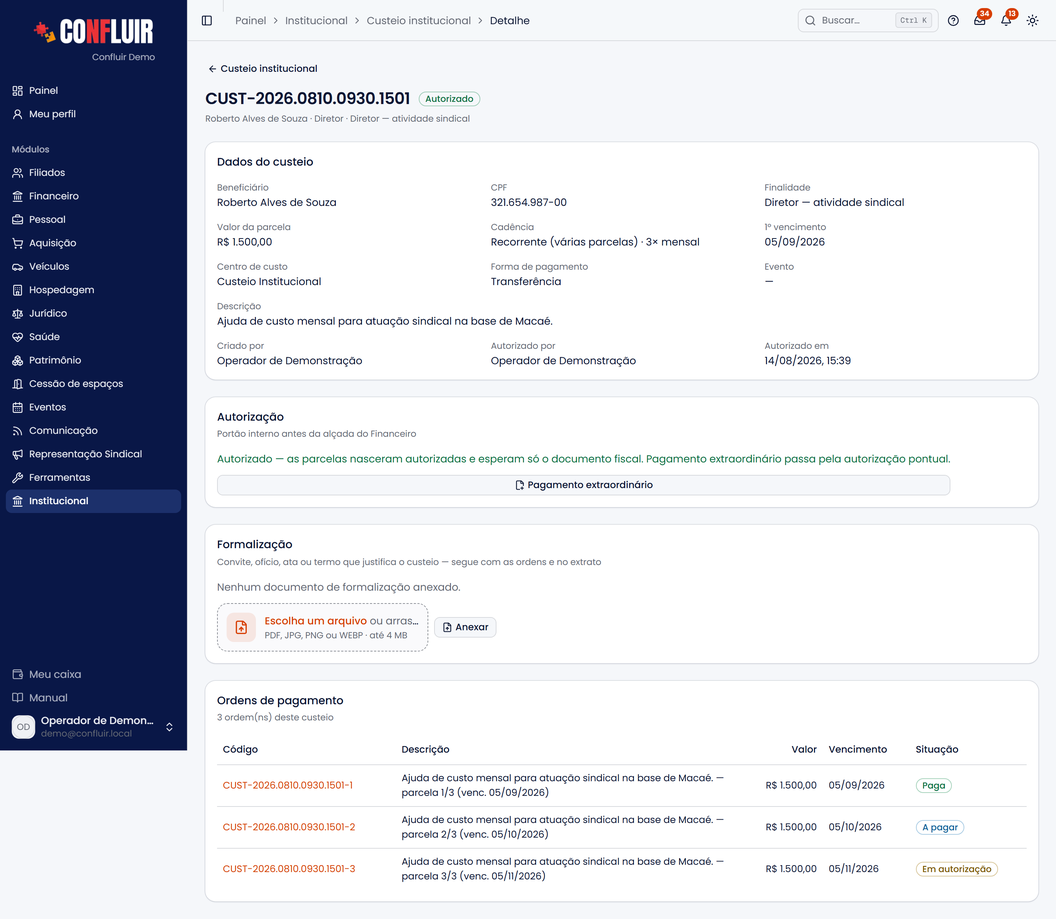
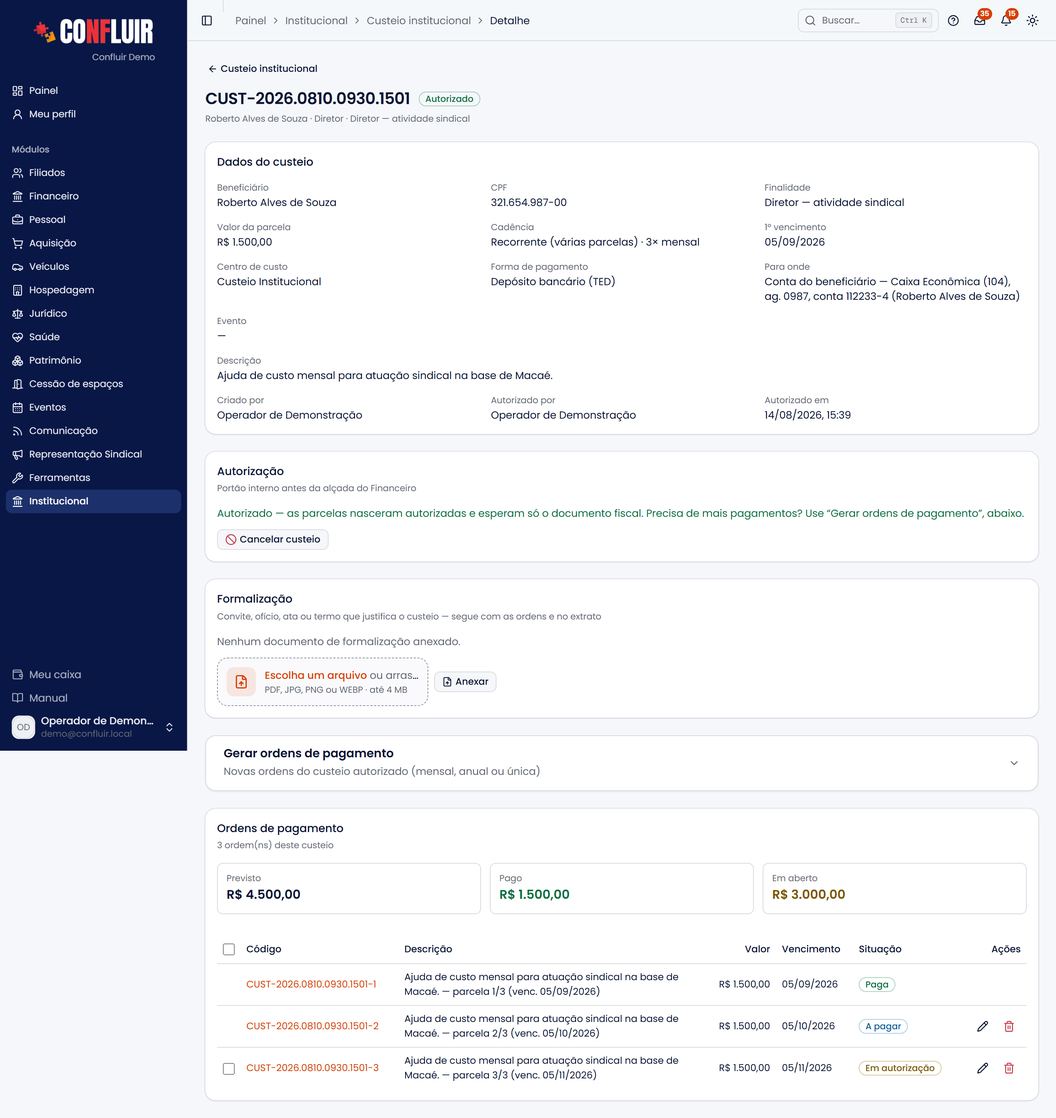
Custeio: situação Concluído e prints do manual atualizados
Custeio autorizado com todas as ordens pagas ou canceladas (ao menos uma
paga) aparece como Concluído na lista, no filtro, no CSV, no resumo e no
detalhe — derivado das ordens, sem migração; uma ordem nova o devolve a
autorizado. Prints custeios.png e custeio-detalhe.png refeitos com o
gerador de ordens, o resumo e as ações. Manual e base da ajuda atualizados.

diff --git a/src/lib/ajuda/base-conhecimento.ts b/src/lib/ajuda/base-conhecimento.ts
@@ -307,7 +307,7 @@ export const BASE_AJUDA: ArtigoBase[] = [
   {
     "area": "institucional",
     "slug": "custeios",
-    "texto": "O custeio institucional é onde a entidade registra despesas que ela banca\nem favor de pessoas por razão de missão sindical — não como compra, folha de\npagamento ou reembolso de filiado.\n\n Custeio institucional \n\n Quando usar (e quando não)\n\nTrês beneficiários: \n O custeio atende diretores (em atividade sindical), filiados demitidos\n políticos e convidados de eventos (especialistas, filiados ou não).\n \n\nUse o Custeio — e não outros módulos — quando:\n\n- Convidado de evento: em vez de cadastrá-lo como fornecedor e pagar como\n prestador de serviço (o que não reflete a realidade), registre um custeio com\n o beneficiário do tipo Convidado.\n- Diretor: em vez de lançar como reembolso de filiado (aquela área é para\n despesas do filiado em atos do sindicato, não para atividade de diretor),\n registre um custeio do tipo Diretor.\n\n \n\n Finalidades e centro de custo\n\nCada custeio tem uma finalidade, e cada finalidade define o centro de custo\npadrão. Ao criar o custeio, esse centro é herdado automaticamente — a ordem de\npagamento já nasce classificada.\n\nFinalidades são suas: \n As finalidades são cadastradas por organização. Além das três iniciais, você\n pode criar outras (ex.: “ex-diretor”, “homenagem”) em Finalidades.\n \n\n \n\n Do cadastro ao pagamento\n\n \n \nCadastre o custeio: \n Escolha a finalidade, o beneficiário, o valor e a cadência (pontual ou\n recorrente). Ele nasce como rascunho.\n \n \nSubmeta para autorização: \n O custeio vai para aguardando autorização — o portão interno da\n entidade, antes do Financeiro.\n \n \nAutorize: \n Quem tem a permissão de autorizar libera. Nesse momento, as ordens de\n pagamento são geradas em “Em autorização”.\n \n \nFinanceiro paga: \n As ordens seguem pela alçada do Financeiro como qualquer despesa. No\n Financeiro, o filtro Custeio mostra só essas ordens.\n \n \n\nA formalização é o documento fiscal: \n O arquivo de formalização do custeio vale como documento fiscal das\n ordens que ele gera — aparece como nota na ordem e no extrato. Com ela\n anexada, as parcelas recorrentes já nascem A pagar, sem esperar nota uma a\n uma. Anexada depois, ela entra nas ordens em aberto sem nota própria, e as\n parcelas que aguardavam o documento seguem para pagamento.\n \n\n \n\nConvidado não é fornecedor: \n O convidado externo tem um cadastro leve próprio (nome e dados bancários). Ele\n não entra na lista de fornecedores nem na esteira de Aquisição.\n \n\n Gerar novas ordens\n\nDepois de autorizado, o custeio pode ganhar novas ordens de pagamento, como\num contrato: abra Gerar ordens de pagamento na página do custeio.\n\n- Periodicidade mensal, anual ou única (um pagamento avulso), com o\n valor, o primeiro vencimento (sugerido no mês seguinte à última\n ordem) e a quantidade.\n- Motivo obrigatório: ele entra na descrição e na trilha de cada ordem.\n- Forma de pagamento: vem preenchida com a do custeio (a chave Pix ou a\n conta já validadas aparecem selecionadas). Dá para trocar — a troca vale só\n para as novas ordens; as anteriores seguem com a forma do custeio. Em\n boleto, anexe um arquivo por ordem.\n- Autorização: as novas ordens estendem o que foi autorizado, então nascem\n Em autorização e passam pela alçada. Exceção: parcela recorrente\n gerada por quem tem a permissão Custeio institucional — autorizar nasce\n autorizada, como as originais, e espera só o documento fiscal (com a\n formalização anexada, já A pagar).\n- Antes de gravar, a auditoria analisa; havendo apontamento, abre a tela de\n confirmação.\n- Vencimentos que já têm ordem do custeio são pulados — rodar de novo não\n duplica. O vencimento de uma ordem cancelada pode ser gerado de novo.\n\nNa lista Ordens de pagamento do custeio ficam o previsto, o pago e o\nem aberto (sem as canceladas). As ordens ainda não autorizadas ganham\numa caixa de seleção: marque e clique em Excluir marcadas. As autorizadas se\ncancelam no Financeiro.\n\nCada ordem ainda não paga nem em processamento tem, na coluna Ações,\nEditar (descrição, valor e vencimento, com motivo) e Excluir. A edição é\na mesma correção do Financeiro: o antes e o depois ficam no histórico, e mudar\no valor de uma ordem já autorizada a devolve para autorização. Excluir uma\nordem autorizada desfaz a autorização — o histórico registra isso.\n\n Editar e cancelar\n\n- Editar só em rascunho. Depois de submetido, o custeio não muda mais.\n- Reprovado pode ser reaberto para correção: volta a rascunho (o motivo\n da reprovação continua visível), é corrigido e submetido de novo.\n- Cancelar pede um motivo e vale em rascunho, aguardando autorização ou\n autorizado. O custeio guarda quem cancelou, quando e por quê.\n- Cancelar um custeio autorizado exige a permissão Custeio institucional —\n autorizar. As ordens ainda não pagas são canceladas junto no\n Financeiro; as pagas continuam como estão. Se alguma ordem já estiver em\n pagamento (Processando ou numa remessa enviada ao banco), o cancelamento\n é recusado até o Financeiro resolvê-la.\n- Não há exclusão: o custeio cancelado ou reprovado fica no histórico.\n- Cancelamento pelo Financeiro: se o Financeiro cancelar todas as ordens\n de um custeio, ele passa a cancelado sozinho, com o motivo da última\n ordem. Se o Financeiro desfizer o cancelamento de uma ordem, o custeio\n volta a autorizado. Ordens canceladas aparecem na lista do custeio com o\n motivo.\n\n Erros comuns\n\n- \"O custeio não gerou a ordem de pagamento.\" As ordens saem na\n autorização — um custeio em rascunho ou apenas submetido ainda não\n gerou nada.\n- \"Vou pagar um convidado — cadastro como fornecedor?\" Não. Use Custeio\n com beneficiário Convidado; ele não entra em Fornecedores nem em Aquisição.\n- \"Não aparece a finalidade que preciso.\" Cadastre-a em Finalidades, já\n com o centro de custo padrão — é ele que a ordem herda.\n- \"Só registro, não autorizo.\" Autorizar exige Custeio institucional —\n autorizar; registrar abre para a permissão de edição."
+    "texto": "O custeio institucional é onde a entidade registra despesas que ela banca\nem favor de pessoas por razão de missão sindical — não como compra, folha de\npagamento ou reembolso de filiado.\n\n Custeio institucional \n\n Quando usar (e quando não)\n\nTrês beneficiários: \n O custeio atende diretores (em atividade sindical), filiados demitidos\n políticos e convidados de eventos (especialistas, filiados ou não).\n \n\nUse o Custeio — e não outros módulos — quando:\n\n- Convidado de evento: em vez de cadastrá-lo como fornecedor e pagar como\n prestador de serviço (o que não reflete a realidade), registre um custeio com\n o beneficiário do tipo Convidado.\n- Diretor: em vez de lançar como reembolso de filiado (aquela área é para\n despesas do filiado em atos do sindicato, não para atividade de diretor),\n registre um custeio do tipo Diretor.\n\n \n\n Finalidades e centro de custo\n\nCada custeio tem uma finalidade, e cada finalidade define o centro de custo\npadrão. Ao criar o custeio, esse centro é herdado automaticamente — a ordem de\npagamento já nasce classificada.\n\nFinalidades são suas: \n As finalidades são cadastradas por organização. Além das três iniciais, você\n pode criar outras (ex.: “ex-diretor”, “homenagem”) em Finalidades.\n \n\n \n\n Do cadastro ao pagamento\n\n \n \nCadastre o custeio: \n Escolha a finalidade, o beneficiário, o valor e a cadência (pontual ou\n recorrente). Ele nasce como rascunho.\n \n \nSubmeta para autorização: \n O custeio vai para aguardando autorização — o portão interno da\n entidade, antes do Financeiro.\n \n \nAutorize: \n Quem tem a permissão de autorizar libera. Nesse momento, as ordens de\n pagamento são geradas em “Em autorização”.\n \n \nFinanceiro paga: \n As ordens seguem pela alçada do Financeiro como qualquer despesa. No\n Financeiro, o filtro Custeio mostra só essas ordens.\n \n \nConcluído: \n Quando todas as ordens estão pagas ou canceladas (e ao menos uma foi\n paga), o custeio aparece como Concluído — na lista, no filtro e no\n resumo. Gerar uma ordem nova (ou desfazer o cancelamento de uma) o devolve\n a Autorizado.\n \n \n\nA formalização é o documento fiscal: \n O arquivo de formalização do custeio vale como documento fiscal das\n ordens que ele gera — aparece como nota na ordem e no extrato. Com ela\n anexada, as parcelas recorrentes já nascem A pagar, sem esperar nota uma a\n uma. Anexada depois, ela entra nas ordens em aberto sem nota própria, e as\n parcelas que aguardavam o documento seguem para pagamento.\n \n\n \n\nConvidado não é fornecedor: \n O convidado externo tem um cadastro leve próprio (nome e dados bancários). Ele\n não entra na lista de fornecedores nem na esteira de Aquisição.\n \n\n Gerar novas ordens\n\nDepois de autorizado, o custeio pode ganhar novas ordens de pagamento, como\num contrato: abra Gerar ordens de pagamento na página do custeio.\n\n- Periodicidade mensal, anual ou única (um pagamento avulso), com o\n valor, o primeiro vencimento (sugerido no mês seguinte à última\n ordem) e a quantidade.\n- Motivo obrigatório: ele entra na descrição e na trilha de cada ordem.\n- Forma de pagamento: vem preenchida com a do custeio (a chave Pix ou a\n conta já validadas aparecem selecionadas). Dá para trocar — a troca vale só\n para as novas ordens; as anteriores seguem com a forma do custeio. Em\n boleto, anexe um arquivo por ordem.\n- Autorização: as novas ordens estendem o que foi autorizado, então nascem\n Em autorização e passam pela alçada. Exceção: parcela recorrente\n gerada por quem tem a permissão Custeio institucional — autorizar nasce\n autorizada, como as originais, e espera só o documento fiscal (com a\n formalização anexada, já A pagar).\n- Antes de gravar, a auditoria analisa; havendo apontamento, abre a tela de\n confirmação.\n- Vencimentos que já têm ordem do custeio são pulados — rodar de novo não\n duplica. O vencimento de uma ordem cancelada pode ser gerado de novo.\n\nNa lista Ordens de pagamento do custeio ficam o previsto, o pago e o\nem aberto (sem as canceladas). As ordens ainda não autorizadas ganham\numa caixa de seleção: marque e clique em Excluir marcadas. As autorizadas se\ncancelam no Financeiro.\n\nCada ordem ainda não paga nem em processamento tem, na coluna Ações,\nEditar (descrição, valor e vencimento, com motivo) e Excluir. A edição é\na mesma correção do Financeiro: o antes e o depois ficam no histórico, e mudar\no valor de uma ordem já autorizada a devolve para autorização. Excluir uma\nordem autorizada desfaz a autorização — o histórico registra isso.\n\n Editar e cancelar\n\n- Editar só em rascunho. Depois de submetido, o custeio não muda mais.\n- Reprovado pode ser reaberto para correção: volta a rascunho (o motivo\n da reprovação continua visível), é corrigido e submetido de novo.\n- Cancelar pede um motivo e vale em rascunho, aguardando autorização ou\n autorizado. O custeio guarda quem cancelou, quando e por quê.\n- Cancelar um custeio autorizado exige a permissão Custeio institucional —\n autorizar. As ordens ainda não pagas são canceladas junto no\n Financeiro; as pagas continuam como estão. Se alguma ordem já estiver em\n pagamento (Processando ou numa remessa enviada ao banco), o cancelamento\n é recusado até o Financeiro resolvê-la.\n- Não há exclusão: o custeio cancelado ou reprovado fica no histórico.\n- Cancelamento pelo Financeiro: se o Financeiro cancelar todas as ordens\n de um custeio, ele passa a cancelado sozinho, com o motivo da última\n ordem. Se o Financeiro desfizer o cancelamento de uma ordem, o custeio\n volta a autorizado. Ordens canceladas aparecem na lista do custeio com o\n motivo.\n\n Erros comuns\n\n- \"O custeio não gerou a ordem de pagamento.\" As ordens saem na\n autorização — um custeio em rascunho ou apenas submetido ainda não\n gerou nada.\n- \"Vou pagar um convidado — cadastro como fornecedor?\" Não. Use Custeio\n com beneficiário Convidado; ele não entra em Fornecedores nem em Aquisição.\n- \"Não aparece a finalidade que preciso.\" Cadastre-a em Finalidades, já\n com o centro de custo padrão — é ele que a ordem herda.\n- \"Só registro, não autorizo.\" Autorizar exige Custeio institucional —\n autorizar; registrar abre para a permissão de edição."
   },
   {
     "area": "institucional",
@@ -507,7 +507,7 @@ export const BASE_AJUDA: ArtigoBase[] = [
   {
     "area": "pessoal",
     "slug": "ponto",
-    "texto": "O controle de ponto segue a mesma lógica dos contracheques: os espelhos de\nponto são organizados em remessas por período, e liberados ao funcionário\na partir de cada remessa.\n\n Gestão de Pessoal \n\nPor funcionário: \n A primeira aba da área é Funcionários: clique no nome para ver a página da\n pessoa nesta área e, dela, cada registro. Veja como cada área se organiza (seção \"Como cada área se organiza\").\n \n\n \n\n \n\n O que é\n\nCada remessa de ponto reúne os espelhos de ponto de um período de referência,\ncom as horas apuradas (inclusive as horas extras, em duas faixas). Como nos\ncontracheques, cada item fica Bloqueado até ser Liberado para o\nfuncionário.\n\n Passo a passo\n\n \n \nNova remessa: \n Em Pessoal → Controle de ponto, clique em Nova remessa e informe o\n período de referência.\n \n \nAdicione os espelhos: \n Abra a remessa e clique em Novo registro, no topo (o formulário fica\n fechado até lá; o Editar de cada linha também o abre). Inclua o espelho\n de ponto de cada funcionário, com as horas\n das duas faixas em horas e minutos (ex.: 10:30). Ao escolher o\n funcionário, o saldo da remessa anterior vem preenchido (o saldo do mês\n anterior dele); informe as realizadas e as pagas no mês, e o\n saldo remanescente é calculado: anterior + realizadas − pagas.\n \n \nLibere: \n Confira e libere item a item. Liberar avisa o funcionário (sino e, quando\n configurado, e-mail).\n \n \nFinalize: \n Com tudo conferido, finalize a remessa para travá-la.\n \n \n\n \n\n Indicadores e planilha da remessa\n\nNa aba Registros, acima da lista, a remessa mostra quantos registros já\nforam lançados (e quantos funcionários ativos ainda faltam, com a lista dos\nnomes), quantos estão liberados e sem espelho, e os totais de horas\nrealizadas, pagas (também em decimal) e do saldo remanescente, em cada faixa.\n\nExportar planilha, no topo, baixa um CSV para o Excel com uma linha por\nfuncionário: CPF, matrícula, saldo anterior, realizadas, pagas e saldo\nremanescente de cada faixa, cada um em horas e minutos e em decimal, além de\nliberado e espelho anexado.\n\n \n\n Faixas de hora extra\n\nO ponto separa as horas extras em duas faixas: a faixa 1, dos dias úteis,\ne a faixa 2, de domingos, feriados e folgas trabalhadas. O percentual de\ncada uma é da entidade — a CLT garante no mínimo 50%, e o acordo coletivo pode\npagar mais. Ajuste em Percentuais de hora extra, no fim da área do Controle\nde ponto (padrão: 50% e 100%). Telas, planilha, movimento da folha e resenha da\nIA passam a mostrar o percentual da entidade; as horas lançadas não mudam.\n\n \n\nHoras e minutos na tela, decimal na contabilidade: \n O sistema mostra as horas em horas e minutos, mas guarda em decimal (10:30 =\n 10,50). As horas pagas aparecem nos dois formatos; o decimal é o que vai\n à contabilidade no movimento da folha.\n \n\n Isenção de registro de ponto\n\nHá quem não registre ponto por um período: cargo de gestão dispensado do\ncontrole de jornada (art. 62 da CLT), afastamento longo, entre outros. Para\nnão aparecer todo mês como pendente, registre a isenção na aba\nIsenções do Controle de ponto (ou em Nova isenção, na página do\nfuncionário) com o funcionário, o período (início e, se houver, fim) e a\njustificativa.\n\n- Quem está isento no mês inteiro da remessa não entra em \"Funcionários\n ativos sem registro\" e aparece em Isentos de registro de ponto nesta\n competência.\n- Quem está isento só em parte do mês continua pendente: os dias fora da\n isenção ainda precisam de registro. A lista mostra o período da isenção.\n- Encerrar define o último dia e mantém o histórico (com quem registrou e\n quem encerrou). Excluir é só para lançamento feito por engano.\n- Um funcionário não pode ter duas isenções no mesmo período. Para estender\n uma isenção encerrada, registre uma nova.\n\n \n\n \n\n \n\n Indicadores e resenha da IA\n\nO ponto também serve para enxergar riscos trabalhistas antes que virem\nproblema. Há três recortes, cada um com os seus indicadores e a sua resenha:\n\n| Recorte | Onde |\n| --- | --- |\n| Remessa (o mês) | Aba Indicadores e resenha dentro da remessa |\n| Ano | Botão Indicadores e resenhas na lista de remessas |\n| Departamento no ano | Tabela de departamentos do ano — clique no nome da área |\n\n \n \nOs números: \n Horas extras realizadas em cada faixa, quantos funcionários fizeram horas\n extras, média por funcionário, saldo do banco de horas, atestados e faltas\n injustificadas. No ano, a evolução mês a mês e os meses sem remessa (a\n falta do registro também é um risco).\n \n \nAs marcações do espelho: \n Quando o espelho de ponto é um PDF com texto (o do Secullum), a IA lê as\n batidas de cada dia e o sistema confere: jornada acima de 10 h, intervalo\n menor que 1 h, menos de 11 h entre uma jornada e outra, domingo ou feriado\n trabalhado, 7 dias seguidos sem folga, marcação incompleta e ponto\n \"britânico\" (horários sempre iguais). O espelho é lido sozinho ao salvar o\n registro; para os que já estavam lá, use Ler marcações dos espelhos.\n \n \nFuncionários em atenção: \n Cada funcionário com alerta aparece com o motivo e o artigo da CLT ou a\n súmula do TST: mês acima de 44 h extras (mais de 2 h por dia útil), horas\n extras habituais, banco de horas alto ou crescendo, dias na faixa 2 (domingos e feriados), as\n ocorrências das marcações e atestados junto com muitas horas extras\n (possível sobrecarga).\n \n \nA resenha: \n Gerar resenha com IA redige, a partir desses indicadores, o panorama do\n período, os riscos trabalhistas em ordem de gravidade, quem acompanhar de\n perto (funcionários e departamentos) com uma sugestão para cada um, as\n recomendações e as limitações dos dados. Ela fica guardada; Gerar de\n novo refaz com os números atuais.\n \n \n\n \n\n \n\nO que a análise não alcança: \n Os espelhos escaneados que vieram do sistema antigo (até julho de 2025) não\n têm texto e não são lidos — para esses meses valem só as horas lançadas. O\n departamento usado é o atual de cada funcionário, inclusive nos anos\n anteriores. A resenha é um apoio: confira os números antes de agir.\n \n\n Regras e travas\n\n- Uma remessa finalizada não aceita inclusão, edição ou exclusão de itens —\n reabra em Editar remessa para corrigir.\n- Os filtros de ano e situação (abertas/finalizadas) ajudam a achar\n remessas antigas rapidamente.\n\n Erros comuns\n\n- O funcionário não vê o espelho. Verifique se o item está Liberado.\n- Remessa travada. Ela está finalizada; reabra para mexer."
+    "texto": "O controle de ponto segue a mesma lógica dos contracheques: os espelhos de\nponto são organizados em remessas por período, e liberados ao funcionário\na partir de cada remessa.\n\n Gestão de Pessoal \n\nPor funcionário: \n A primeira aba da área é Funcionários: clique no nome para ver a página da\n pessoa nesta área e, dela, cada registro. Veja como cada área se organiza (seção \"Como cada área se organiza\").\n \n\n \n\n \n\n O que é\n\nCada remessa de ponto reúne os espelhos de ponto de um período de referência,\ncom as horas apuradas (inclusive as horas extras, em duas faixas). Como nos\ncontracheques, cada item fica Bloqueado até ser Liberado para o\nfuncionário.\n\n Passo a passo\n\n \n \nNova remessa: \n Em Pessoal → Controle de ponto, clique em Nova remessa e informe o\n período de referência.\n \n \nAdicione os espelhos: \n Abra a remessa e clique em Novo registro, no topo (o formulário fica\n fechado até lá; o Editar de cada linha também o abre). Inclua o espelho\n de ponto de cada funcionário, com as horas\n das duas faixas em horas e minutos (ex.: 10:30). Ao escolher o\n funcionário, o saldo da remessa anterior vem preenchido (o saldo do mês\n anterior dele); informe as realizadas e as pagas no mês, e o\n saldo remanescente é calculado: anterior + realizadas − pagas.\n \n \nLibere: \n Confira e libere item a item. Liberar avisa o funcionário (sino e, quando\n configurado, e-mail).\n \n \nFinalize: \n Com tudo conferido, finalize a remessa para travá-la.\n \n \n\n \n\n Indicadores e planilha da remessa\n\nNa aba Registros, acima da lista, a remessa mostra quantos registros já\nforam lançados (e quantos funcionários ativos ainda faltam, com a lista dos\nnomes), quantos estão liberados e sem espelho, e os totais de horas\nrealizadas, pagas (também em decimal) e do saldo remanescente, em cada faixa.\n\nExportar planilha, no topo, baixa um CSV para o Excel com uma linha por\nfuncionário: CPF, matrícula, saldo anterior, realizadas, pagas e saldo\nremanescente de cada faixa, cada um em horas e minutos e em decimal, além de\nliberado e espelho anexado.\n\n \n\n Faixas de hora extra\n\nO ponto separa as horas extras em duas faixas: a faixa 1, dos dias úteis,\ne a faixa 2, de domingos, feriados e folgas trabalhadas. O percentual de\ncada uma é da entidade — a CLT garante no mínimo 50%, e o acordo coletivo pode\npagar mais. Ajuste em Percentuais de hora extra, no fim da área do Controle\nde ponto (padrão: 50% e 100%). Telas, planilha, movimento da folha e resenha da\nIA passam a mostrar o percentual da entidade; as horas lançadas não mudam.\n\n \n\nHoras e minutos na tela, decimal na contabilidade: \n O sistema mostra as horas em horas e minutos, mas guarda em decimal (10:30 =\n 10,50). As horas pagas aparecem nos dois formatos; o decimal é o que vai\n à contabilidade no movimento da folha.\n \n\n Isenção de registro de ponto\n\nHá quem não registre ponto por um período: cargo de gestão dispensado do\ncontrole de jornada (art. 62 da CLT), afastamento longo, entre outros. Para\nnão aparecer todo mês como pendente, registre a isenção na aba\nIsenções do Controle de ponto (ou em Nova isenção, na página do\nfuncionário) com o funcionário, o período (início e, se houver, fim) e a\njustificativa.\n\n- Quem está isento no mês inteiro da remessa não entra em \"Funcionários\n ativos sem registro\" e aparece em Isentos de registro de ponto nesta\n competência.\n- Quem está isento só em parte do mês continua pendente: os dias fora da\n isenção ainda precisam de registro. A lista mostra o período da isenção.\n- Encerrar define o último dia e mantém o histórico (com quem registrou e\n quem encerrou). Excluir é só para lançamento feito por engano.\n- Um funcionário não pode ter duas isenções no mesmo período. Para estender\n uma isenção encerrada, registre uma nova.\n\n \n\n \n\n \n\n Indicadores e resenha da IA\n\nO ponto também serve para enxergar riscos trabalhistas antes que virem\nproblema. Há três recortes, cada um com os seus indicadores e a sua resenha:\n\n| Recorte | Onde |\n| --- | --- |\n| Remessa (o mês) | Aba Indicadores e resenha dentro da remessa |\n| Ano | Botão Indicadores e resenhas na lista de remessas |\n| Departamento no ano | Tabela de departamentos do ano — clique no nome da área |\n\n \n \nOs números: \n Horas extras realizadas em cada faixa, quantos funcionários fizeram horas\n extras, média por funcionário, saldo do banco de horas, atestados e faltas\n injustificadas. No ano, a evolução mês a mês e os meses sem remessa (a\n falta do registro também é um risco).\n \n \nAs marcações do espelho: \n Quando o espelho de ponto é um PDF com texto (o do Secullum), a IA lê as\n batidas de cada dia e o sistema confere: jornada acima de 10 h, intervalo\n menor que 1 h, menos de 11 h entre uma jornada e outra, domingo ou feriado\n trabalhado, 7 dias seguidos sem folga, marcação incompleta e ponto\n \"britânico\" (horários sempre iguais). O espelho é lido sozinho ao salvar o\n registro; para os que já estavam lá, use Ler marcações dos espelhos.\n \n \nFuncionários em atenção: \n Cada funcionário com alerta aparece com o motivo e o artigo da CLT ou a\n súmula do TST: mês acima de 44 h extras (mais de 2 h por dia útil), horas\n extras habituais, banco de horas alto ou crescendo, dias na faixa 2 (domingos e feriados), as\n ocorrências das marcações e atestados junto com muitas horas extras\n (possível sobrecarga).\n \n \nA resenha: \n Gerar resenha com IA redige, a partir desses indicadores, o panorama do\n período, os riscos trabalhistas em ordem de gravidade, quem acompanhar de\n perto (funcionários e departamentos) com uma sugestão para cada um, as\n recomendações e as limitações dos dados. Ela fica guardada; Gerar de\n novo refaz com os números atuais.\n \n \n\n \n\n \n\nO que a análise não alcança: \n Os espelhos escaneados que vieram do sistema antigo (até julho de 2025) não\n têm texto e não são lidos — para esses meses valem só as horas lançadas. O\n departamento usado é o atual de cada funcionário, inclusive nos anos\n anteriores. A resenha é um apoio: confira os números antes de agir.\n \n\n Regras e travas\n\n- Uma remessa finalizada não aceita inclusão, edição ou exclusão de itens —\n reabra em Editar remessa para corrigir.\n- Excluir um registro (a lixeira na linha) apaga também o PDF do espelho.\n Se o registro já foi liberado, o sistema avisa antes: o funcionário pode\n ter visto o espelho, que some do Meu perfil dele. O aviso de liberação fica\n no histórico de avisos, sem link.\n- Excluir remessa fica em Editar remessa. Com registros, o botão vira\n Excluir remessa e N registro(s) e, confirmado, apaga a remessa, os\n registros, os PDFs dos espelhos e a resenha da IA da remessa. Não dá para\n desfazer. Remessa finalizada precisa ser reaberta antes.\n- Os filtros de ano e situação (abertas/finalizadas) ajudam a achar\n remessas antigas rapidamente.\n\n Erros comuns\n\n- O funcionário não vê o espelho. Verifique se o item está Liberado.\n- Remessa travada. Ela está finalizada; reabra para mexer."
   },
   {
     "area": "pessoal",
@@ -567,7 +567,7 @@ export const BASE_AJUDA: ArtigoBase[] = [
   {
     "area": "saude",
     "slug": "cat",
-    "texto": "A CAT (Comunicação de Acidente de Trabalho) é registrada no formato do\nformulário oficial. O sistema traz o histórico migrado e permite incluir\nnovas, uma a uma ou em massa.\n\n CATs \n\n Painel e listagem\n\n \n \nPainel: \n Indicadores macro: total de CATs, com afastamento, com internação, óbitos,\n empresas envolvidas, acidentes por ano e os principais tipos, municípios e\n empresas — todos clicáveis, levando à listagem já filtrada.\n \n \nListagem: \n Busca e filtros (ano, tipo, UF, município, afastamento, internação, óbito),\n ordenação por coluna e exportação em CSV.\n \n \nDetalhe: \n Cada CAT abre no formato do formulário oficial, com seus blocos e o\n número de cada campo.\n \n \n\n \n\n Inclusão\n\n \n \nFormulário individual: \n Primeiro informe o número da CAT e clique em Verificar: o número é\n comparado com as CATs da base antes de você digitar os 50 campos. Se a CAT\n já foi lançada, o sistema avisa e mostra o link para ela — não é preciso\n digitar de novo. Se for uma atualização (mesmo número com outra\n sequência, como …/02 de uma …/01), o formulário já abre com os dados do\n acidente da CAT de origem. Número novo abre o formulário em branco. CAT sem\n número (parcial) usa A CAT não tem número.\n \n \nLer de PDF com IA: \n A IA lê o formulário e pré-preenche os campos, e em seguida compara com a\n base e diz se a CAT é nova, já lançada, atualização de outra\n (reabertura, comunicação de óbito, evolução para óbito) ou possível\n duplicidade — com o link das CATs parecidas e o que muda. Se já foi\n lançada, dá para atualizar a CAT existente com os dados do PDF: o\n sistema mostra quais campos são diferentes.\n \n \nImportação em massa (CSV): \n Casa cada coluna da planilha pelo número do campo do formulário e valida\n tudo antes de gravar — é tudo ou nada: se uma linha falha, nada é\n importado, para você corrigir e reenviar.\n \n \n\n Nova, já lançada ou atualização\n\n| Situação | Como o sistema reconhece | O que acontece |\n|---|---|---|\n| Já lançada | Mesmo número de CAT | Não deixa lançar de novo; mostra a CAT existente |\n| Atualização | Mesmo número com outra sequência (…/01 × …/02); campo 6 com o recibo da CAT de origem; ou mesmo acidentado e data com reabertura/óbito | Ao salvar, a CAT fica ligada à de origem — as duas aparecem juntas na página de cada uma |\n| Possível duplicidade | Mesmo acidentado e mesma data do acidente, número diferente | Pede a confirmação \"é outra CAT\" antes de salvar |\n| Nova | Nada parecido na base | Salva normalmente |\n\nO acidentado é o mesmo quando o CPF bate ou, sem CPF, quando o nome\nbate (sem acento).\n\n \n\n Duplicidades e atualizações\n\nNa listagem, Duplicidades e atualizações (com a quantidade de casos) reúne\no que já está na base e precisa de tratamento:\n\n- Mesmo número — a mesma CAT lançada mais de uma vez;\n- Atualização sem vínculo — a …/02 de um acidente ainda não ligada à …/01;\n- Mesmo acidentado e data — números diferentes para o mesmo acidente.\n\nEm cada grupo, marque a CAT que fica (ou a de origem) e escolha:\nÉ a mesma CAT: manter a marcada (as outras viram cópia descartada), É\natualização: ligar à marcada como origem, ou Não é duplicidade (o grupo\nsai da lista). Descartar não apaga nada: a cópia sai das listas, do painel\ne da exportação e pode ser restaurada na página da CAT que ficou.\n\n \n\nDados históricos com limitações: \n Parte das CATs migradas veio com a descrição truncada e sem código\n (limitação da base anterior), e quase nenhuma traz o CPF — por isso ainda\n não há ligação automática entre CAT e filiado. Esses registros ficam\n sinalizados na listagem.\n \n\n Erros comuns\n\n- \"A importação recusou tudo por causa de uma linha.\" É proposital\n (tudo ou nada): corrija a linha apontada e reenvie a planilha inteira.\n- \"As colunas não bateram na importação.\" O casamento é pelo número do\n campo do formulário oficial — confira o cabeçalho da planilha.\n- \"O sistema diz que a CAT já foi lançada, mas o acidentado é outro.\" O\n número provavelmente foi digitado errado em uma das duas — confira o\n formulário original antes de salvar.\n- \"A CAT não aparece ligada ao filiado.\" Registros antigos vieram sem\n CPF; a ligação automática depende desse dado.\n- \"Um mesmo tipo/município aparece escrito de várias formas.\" São grafias\n da base antiga; o painel agrupa as variações para os indicadores."
+    "texto": "A CAT (Comunicação de Acidente de Trabalho) é registrada no formato do\nformulário oficial. O sistema traz o histórico migrado e permite incluir\nnovas, uma a uma ou em massa.\n\n CATs \n\n Painel e listagem\n\n \n \nPainel: \n Indicadores macro: total de CATs, com afastamento, com internação, óbitos,\n empresas envolvidas, acidentes por ano e os principais tipos, municípios e\n empresas — todos clicáveis, levando à listagem já filtrada.\n \n \nListagem: \n Busca e filtros (ano, tipo, UF, município, afastamento, internação, óbito),\n ordenação por coluna e exportação em CSV.\n \n \nDetalhe: \n Cada CAT abre no formato do formulário oficial, com seus blocos e o\n número de cada campo.\n \n \n\n \n\n Inclusão\n\n \n \nFormulário individual: \n Primeiro informe o número da CAT e clique em Verificar: o número é\n comparado com as CATs da base antes de você digitar os 50 campos. Se a CAT\n já foi lançada, o sistema avisa e mostra o link para ela — não é preciso\n digitar de novo. Se for uma atualização (mesmo número com outra\n sequência, como …/02 de uma …/01), o formulário já abre com os dados do\n acidente da CAT de origem. Número novo abre o formulário em branco. CAT sem\n número (parcial) usa A CAT não tem número.\n \n \nLer de PDF com IA: \n A IA lê o formulário e pré-preenche os campos, e em seguida compara com a\n base e diz se a CAT é nova, já lançada, atualização de outra\n (reabertura, comunicação de óbito, evolução para óbito) ou possível\n duplicidade — com o link das CATs parecidas e o que muda. Se já foi\n lançada, dá para atualizar a CAT existente com os dados do PDF: o\n sistema mostra quais campos são diferentes. O PDF fica guardado na CAT\n (botão PDF da CAT, na página dela).\n \n \nVários PDFs de uma vez: \n Selecione até 30 PDFs no mesmo envio. A IA lê dois por vez e cada um\n vira uma linha da lista, com o acidentado, o número e a comparação com a\n base. Em Conferir, o formulário abre abaixo da lista, já preenchido;\n ao salvar, você continua na lista para conferir o próximo. Não feche a\n página enquanto a leitura não termina.\n \n \nRegistrar sem conferência: \n Marque Registrar sem conferência antes de ler para gravar direto o que\n a IA leu, sem revisar campo a campo. Só entram CATs novas e\n atualizações com nome e data do acidente lidos; as já lançadas não\n entram, e a possível duplicidade ou a leitura incompleta ficam na lista\n para você conferir. Também dá para gravar sem conferir depois, linha a\n linha ou todas as pendentes de uma vez.\n \n \nImportação em massa (CSV): \n Casa cada coluna da planilha pelo número do campo do formulário e valida\n tudo antes de gravar — é tudo ou nada: se uma linha falha, nada é\n importado, para você corrigir e reenviar.\n \n \n\n CAT registrada sem conferência\n\nA CAT gravada sem conferência mostra um alerta no topo da página dela,\ncom os avisos da leitura, o botão Abrir o PDF e Corrigir campos.\nConfira cada campo com o PDF, corrija o que precisar e clique em Marcar\ncomo conferida: o alerta sai e o sistema registra quem conferiu e quando.\nNa listagem, essas CATs têm o selo Sem conferência e o filtro\nRegistradas sem conferência reúne todas.\n\nA IA erra: \n CBO, datas e códigos são os campos em que a leitura mais erra. Uma CAT sem\n conferência já entra no painel analítico e na exportação: confira as\n pendentes antes de usar os números em relatório.\n \n\n Nova, já lançada ou atualização\n\n| Situação | Como o sistema reconhece | O que acontece |\n|---|---|---|\n| Já lançada | Mesmo número de CAT | Não deixa lançar de novo; mostra a CAT existente |\n| Atualização | Mesmo número com outra sequência (…/01 × …/02); campo 6 com o recibo da CAT de origem; ou mesmo acidentado e data com reabertura/óbito | Ao salvar, a CAT fica ligada à de origem — as duas aparecem juntas na página de cada uma |\n| Possível duplicidade | Mesmo acidentado e mesma data do acidente, número diferente | Pede a confirmação \"é outra CAT\" antes de salvar |\n| Nova | Nada parecido na base | Salva normalmente |\n\nO acidentado é o mesmo quando o CPF bate ou, sem CPF, quando o nome\nbate (sem acento).\n\n \n\n Duplicidades e atualizações\n\nNa listagem, Duplicidades e atualizações (com a quantidade de casos) reúne\no que já está na base e precisa de tratamento:\n\n- Mesmo número — a mesma CAT lançada mais de uma vez;\n- Atualização sem vínculo — a …/02 de um acidente ainda não ligada à …/01;\n- Mesmo acidentado e data — números diferentes para o mesmo acidente.\n\nEm cada grupo, marque a CAT que fica (ou a de origem) e escolha:\nÉ a mesma CAT: manter a marcada (as outras viram cópia descartada), É\natualização: ligar à marcada como origem, ou Não é duplicidade (o grupo\nsai da lista). Descartar não apaga nada: a cópia sai das listas, do painel\ne da exportação e pode ser restaurada na página da CAT que ficou.\n\n \n\nDados históricos com limitações: \n Parte das CATs migradas veio com a descrição truncada e sem código\n (limitação da base anterior), e quase nenhuma traz o CPF — por isso ainda\n não há ligação automática entre CAT e filiado. Esses registros ficam\n sinalizados na listagem.\n \n\n Erros comuns\n\n- \"A importação recusou tudo por causa de uma linha.\" É proposital\n (tudo ou nada): corrija a linha apontada e reenvie a planilha inteira.\n- \"As colunas não bateram na importação.\" O casamento é pelo número do\n campo do formulário oficial — confira o cabeçalho da planilha.\n- \"O sistema diz que a CAT já foi lançada, mas o acidentado é outro.\" O\n número provavelmente foi digitado errado em uma das duas — confira o\n formulário original antes de salvar.\n- \"A CAT não aparece ligada ao filiado.\" Registros antigos vieram sem\n CPF; a ligação automática depende desse dado.\n- \"Um mesmo tipo/município aparece escrito de várias formas.\" São grafias\n da base antiga; o painel agrupa as variações para os indicadores."
   },
   {
     "area": "saude",

diff --git a/src/lib/db/custeio.ts b/src/lib/db/custeio.ts
@@ -2,7 +2,7 @@ import "server-only"
 import type { Apontamento } from "@/lib/auditoria-confirmacao"
 import { inserirOrdensVerificadasCompat, type Confirmacao } from "@/lib/db/ordens-verificacao"
 import { cpfConfiavel } from "@/lib/cpf"
-import { esquemaAusente, hojeSP, texto } from "@/lib/db/comum"
+import { esquemaAusente, hojeSP, lerEmLotes, lerEmLotesPorIds, texto } from "@/lib/db/comum"
 import { tenantAtual } from "@/lib/tenant"
 
 import { gerarCodigoProcesso, listarFornecedores, subirComprovanteCompras } from "@/lib/db/compras"
@@ -29,6 +29,7 @@ import { obterFichaDiretor } from "@/lib/db/diretoria-ficha"
 import {
   vencimentoParcela,
   MAX_PARCELAS,
+  situacaoExibidaCusteio,
   type Periodicidade,
 } from "@/lib/custeio-constantes"
 import { createAdminClient } from "@/lib/supabase/admin"
@@ -482,8 +483,9 @@ export async function listarCusteios(
     .eq("emp_proprietaria_id", await tenantAtual())
     .not("excluido", "is", true)
 
+  // "concluido" não é gravada: é o autorizado com as ordens todas encerradas.
   if (filtros.situacao && filtros.situacao !== "todas") {
-    q = q.eq("situacao", filtros.situacao)
+    q = q.eq("situacao", filtros.situacao === "concluido" ? "autorizado" : filtros.situacao)
   }
   if (filtros.finalidadeId) q = q.eq("finalidade_id", filtros.finalidadeId)
   const termo = (filtros.busca ?? "").trim()
@@ -502,9 +504,20 @@ export async function listarCusteios(
     throw new Error(`Falha ao listar custeios: ${error.message}`)
   }
 
+  const concluidos = await custeiosConcluidos(
+    (data ?? []).filter((c) => c.situacao === "autorizado").map((c) => String(c.id))
+  )
+  const exibida = (c: { id: unknown; situacao: unknown }) =>
+    concluidos.has(String(c.id)) ? "concluido" : String(c.situacao)
+  const linhas = (data ?? []).filter(
+    (c) =>
+      filtros.situacao !== "concluido" && filtros.situacao !== "autorizado"
+        ? true
+        : exibida(c) === filtros.situacao
+  )
   const finalidades = await listarFinalidades(true)
   const nomeFinalidade = new Map(finalidades.map((f) => [f.id, f.nome]))
-  return (data ?? []).map((c) => ({
+  return linhas.map((c) => ({
     id: String(c.id),
     codigo: texto(c.codigo),
     finalidade_id: texto(c.finalidade_id),
@@ -517,15 +530,45 @@ export async function listarCusteios(
     cadencia: String(c.cadencia),
     valor_parcela: typeof c.valor_parcela === "number" ? c.valor_parcela : null,
     num_parcelas: typeof c.num_parcelas === "number" ? c.num_parcelas : 1,
-    situacao: String(c.situacao),
+    situacao: exibida(c),
     primeiro_vencimento: texto(c.primeiro_vencimento),
     created_at: texto(c.created_at),
   }))
 }
 
+/**
+ * Custeios autorizados cujas ordens estão todas pagas ou canceladas (ao
+ * menos uma paga) — a situação exibida "concluido" (situacaoExibidaCusteio).
+ */
+export async function custeiosConcluidos(ids: string[]): Promise<Set<string>> {
+  if (ids.length === 0) return new Set()
+  const admin = await createAdminClient()
+  const empId = await tenantAtual()
+  const ordens = await lerEmLotesPorIds<{ custeio_id: string; situacao: string | null }>(ids, (fatia, de, ate) =>
+    admin
+      .from("ordens_pagamento")
+      .select("custeio_id, situacao")
+      .in("custeio_id", fatia)
+      .eq("emp_proprietaria_id", empId)
+      .not("excluido", "is", true)
+      .order("id")
+      .range(de, ate)
+  )
+  const porCusteio = new Map<string, (string | null)[]>()
+  for (const o of ordens) {
+    const lista = porCusteio.get(String(o.custeio_id)) ?? []
+    lista.push(o.situacao)
+    porCusteio.set(String(o.custeio_id), lista)
+  }
+  return new Set(
+    [...porCusteio].filter(([, s]) => situacaoExibidaCusteio("autorizado", s) === "concluido").map(([id]) => id)
+  )
+}
+
 export type ResumoCusteios = {
   aguardando: number
   autorizados: number
+  concluidos: number
   total: number
 }
 
@@ -539,21 +582,27 @@ export async function resumoCusteios(): Promise<ResumoCusteios> {
       .eq("emp_proprietaria_id", empId)
       .not("excluido", "is", true)
       .eq("situacao", "aguardando_autorizacao"),
-    admin
-      .from("institucional_custeios")
-      .select("id", { count: "exact", head: true })
-      .eq("emp_proprietaria_id", empId)
-      .not("excluido", "is", true)
-      .eq("situacao", "autorizado"),
+    lerEmLotes<{ id: string }>((de, ate) =>
+      admin
+        .from("institucional_custeios")
+        .select("id")
+        .eq("emp_proprietaria_id", empId)
+        .not("excluido", "is", true)
+        .eq("situacao", "autorizado")
+        .order("id")
+        .range(de, ate)
+    ),
     admin
       .from("institucional_custeios")
       .select("id", { count: "exact", head: true })
       .eq("emp_proprietaria_id", empId)
       .not("excluido", "is", true),
   ])
+  const concluidos = (await custeiosConcluidos(autorizados.map((c) => String(c.id)))).size
   return {
     aguardando: aguardando.count ?? 0,
-    autorizados: autorizados.count ?? 0,
+    autorizados: autorizados.length - concluidos,
+    concluidos,
     total: total.count ?? 0,
   }
 }

diff --git a/src/app/painel/institucional/custeios/[id]/page.tsx b/src/app/painel/institucional/custeios/[id]/page.tsx
@@ -40,6 +40,7 @@ import { SITUACOES_ENCERRADAS, SITUACOES_NAO_AUTORIZADAS } from "@/lib/db/ordens
 import { hojeLocalISO } from "@/lib/compras-constantes"
 import {
   CADENCIAS,
+  situacaoExibidaCusteio,
   ROTULO_TIPO_BENEFICIARIO,
   vencimentoParcela,
 } from "@/lib/custeio-constantes"
@@ -163,6 +164,12 @@ export default async function CusteioPage({
   const ordensAbertas = detalhe.ordens.filter(
     (o) => !SITUACOES_ENCERRADAS.includes(String(o.situacao))
   ).length
+  // "Concluído" é só exibição: autorizado com todas as ordens pagas ou canceladas.
+  const situacaoExibida = situacaoExibidaCusteio(
+    situacao,
+    detalhe.ordens.map((o) => o.situacao)
+  )
+  const concluido = situacaoExibida === "concluido"
   const ordensCanceladas = detalhe.ordens.filter(
     (o) => o.situacao === "Cancelada"
   ).length
@@ -220,7 +227,7 @@ export default async function CusteioPage({
             <h1 className="text-2xl font-semibold tracking-tight tabular-nums">
               {str(c.codigo) ?? "(sem código)"}
             </h1>
-            <SituacaoCusteioBadge situacao={situacao} />
+            <SituacaoCusteioBadge situacao={situacaoExibida} />
           </div>
         </div>
         <p className="text-muted-foreground mt-1 text-xs">
@@ -454,14 +461,22 @@ export default async function CusteioPage({
             )}
             {situacao === "autorizado" && (
               <div className="grid gap-3">
-                <p className="text-success-fg text-sm">
-                  Autorizado —{" "}
-                  {c.cadencia === "recorrente"
-                    ? "as parcelas nasceram autorizadas e esperam só o documento fiscal."
-                    : "a ordem está no Financeiro."}{" "}
-                  Precisa de mais pagamentos? Use “Gerar ordens de pagamento”, abaixo.
-                </p>
-                {podeEditar && podeAutorizar && (
+                {concluido ? (
+                  <p className="text-info-fg text-sm">
+                    Concluído — todas as ordens foram pagas ou canceladas. Precisa de mais
+                    pagamentos? Use “Gerar ordens de pagamento”, abaixo: o custeio volta a
+                    autorizado.
+                  </p>
+                ) : (
+                  <p className="text-success-fg text-sm">
+                    Autorizado —{" "}
+                    {c.cadencia === "recorrente"
+                      ? "as parcelas nasceram autorizadas e esperam só o documento fiscal."
+                      : "a ordem está no Financeiro."}{" "}
+                    Precisa de mais pagamentos? Use “Gerar ordens de pagamento”, abaixo.
+                  </p>
+                )}
+                {podeEditar && podeAutorizar && !concluido && (
                   <div>
                     <BotaoCancelar custeioId={id} ordensAbertas={ordensAbertas} />
                   </div>

diff --git a/src/lib/custeio-constantes.ts b/src/lib/custeio-constantes.ts
@@ -40,11 +40,14 @@ export type Cadencia = (typeof CADENCIAS)[number]["chave"]
  * Fluxo interno do custeio, ANTES da alçada do Financeiro.
  * rascunho → aguardando_autorizacao → autorizado (gera ordens) | reprovado.
  * cancelado encerra a qualquer momento.
+ * "concluido" NÃO é gravada: é o autorizado cujas ordens estão todas pagas
+ * ou canceladas (ao menos uma paga) — ver situacaoExibidaCusteio.
  */
 export const SITUACOES_CUSTEIO = [
   "rascunho",
   "aguardando_autorizacao",
   "autorizado",
+  "concluido",
   "reprovado",
   "cancelado",
 ] as const
@@ -55,6 +58,7 @@ export const ROTULOS_SITUACAO_CUSTEIO: Record<SituacaoCusteio, string> = {
   rascunho: "Rascunho",
   aguardando_autorizacao: "Aguardando autorização",
   autorizado: "Autorizado",
+  concluido: "Concluído",
   reprovado: "Reprovado",
   cancelado: "Cancelado",
 }
@@ -64,6 +68,7 @@ export const COR_SITUACAO_CUSTEIO: Record<SituacaoCusteio, string> = {
   rascunho: "neutro",
   aguardando_autorizacao: "atencao",
   autorizado: "sucesso",
+  concluido: "info",
   reprovado: "perigo",
   cancelado: "neutro",
 }
@@ -73,3 +78,17 @@ export const TIPOS_BENEFICIARIO_SUGERIDO = [
   ...TIPOS_BENEFICIARIO,
   { chave: "livre", rotulo: "Livre (o usuário escolhe)" },
 ] as const
+
+/**
+ * Situação que a tela mostra: o custeio autorizado vira "concluido" quando
+ * todas as ordens estão pagas ou canceladas e ao menos uma foi paga. Nada é
+ * gravado — uma ordem nova (ou reaberta) o devolve a "autorizado".
+ */
+export function situacaoExibidaCusteio(
+  situacao: string,
+  situacoesDasOrdens: (string | null)[]
+): string {
+  if (situacao !== "autorizado" || situacoesDasOrdens.length === 0) return situacao
+  const encerradas = situacoesDasOrdens.every((s) => s === "Paga" || s === "Cancelada")
+  return encerradas && situacoesDasOrdens.includes("Paga") ? "concluido" : situacao
+}

diff --git a/src/app/painel/institucional/custeios/page.tsx b/src/app/painel/institucional/custeios/page.tsx
@@ -126,9 +126,10 @@ export default async function CusteiosPage({
         </Alert>
       )}
 
-      <div className="grid gap-4 sm:grid-cols-3">
+      <div className="grid gap-4 sm:grid-cols-2 lg:grid-cols-4">
         <CardResumo rotulo="Aguardando autorização" valor={resumo.aguardando} />
         <CardResumo rotulo="Autorizados" valor={resumo.autorizados} />
+        <CardResumo rotulo="Concluídos" valor={resumo.concluidos} />
         <CardResumo rotulo="Total" valor={resumo.total} />
       </div>
 

diff --git a/src/app/painel/institucional/custeios/custeio-badges.tsx b/src/app/painel/institucional/custeios/custeio-badges.tsx
@@ -8,6 +8,7 @@ const CLASSE: Record<string, string> = {
   rascunho: "",
   aguardando_autorizacao: "border-warning/40 text-warning-fg",
   autorizado: "border-success/40 text-success-fg",
+  concluido: "border-info/40 text-info-fg",
   reprovado: "border-destructive/40 text-destructive",
   cancelado: "opacity-70",
 }
